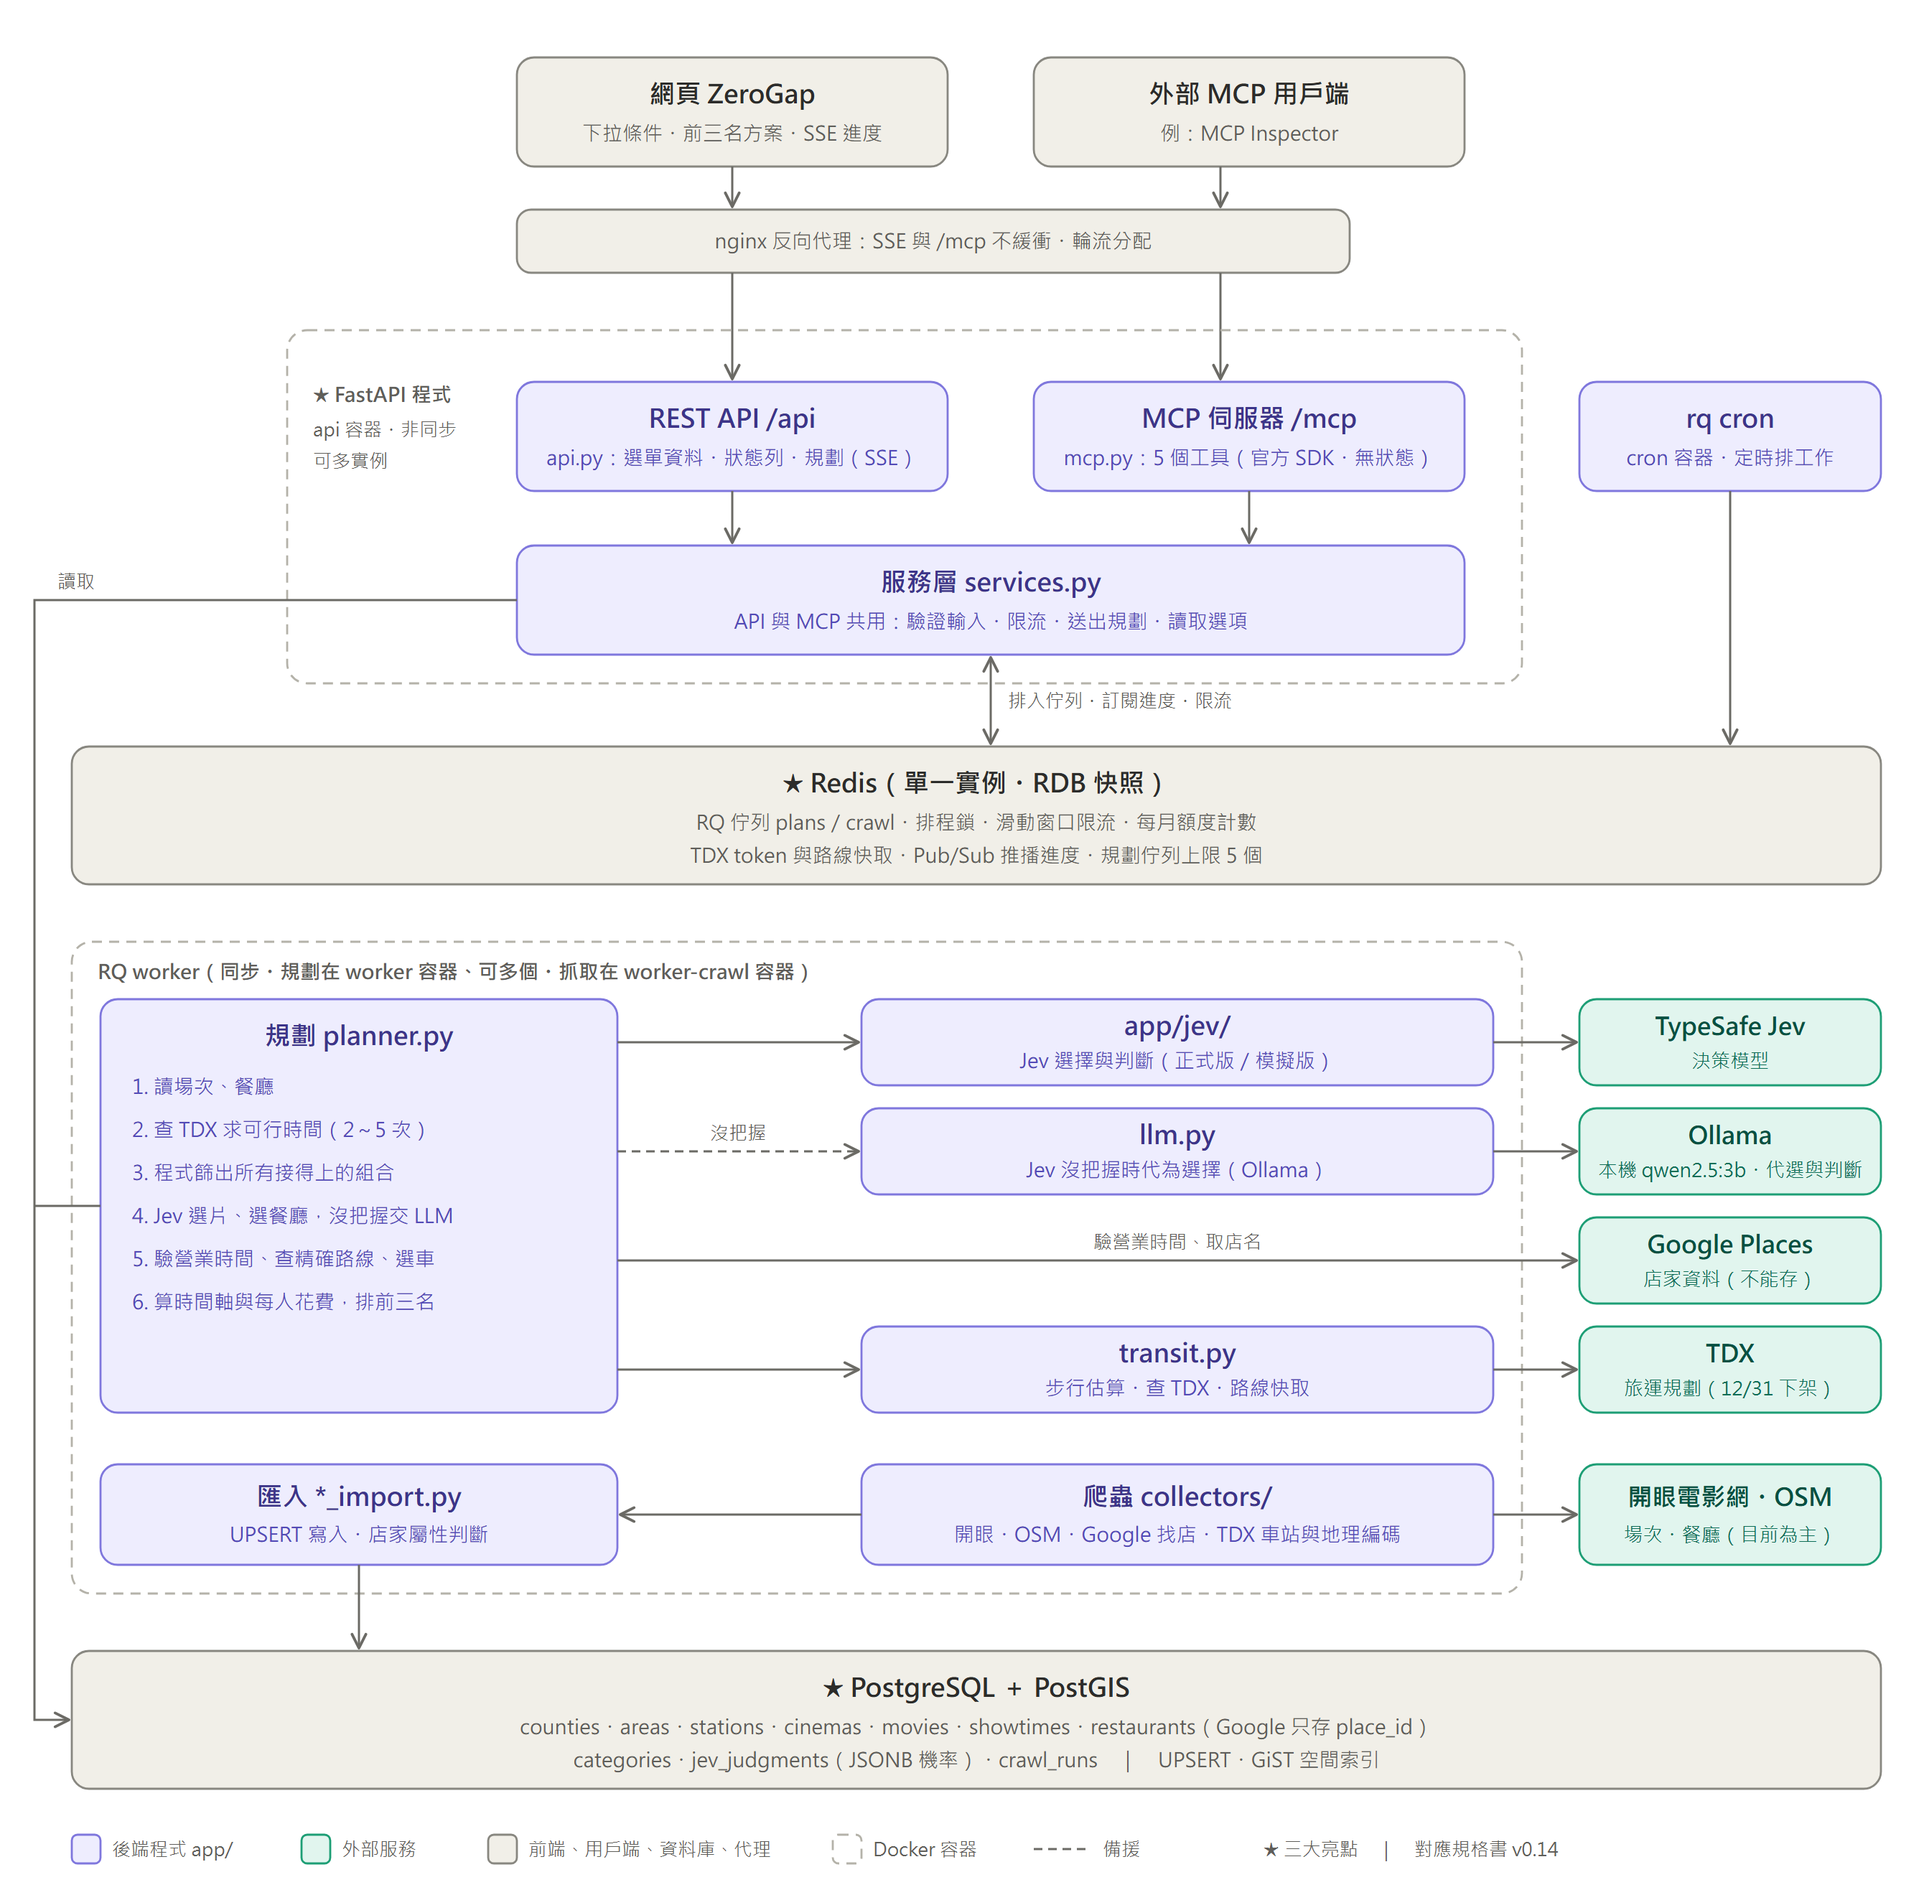
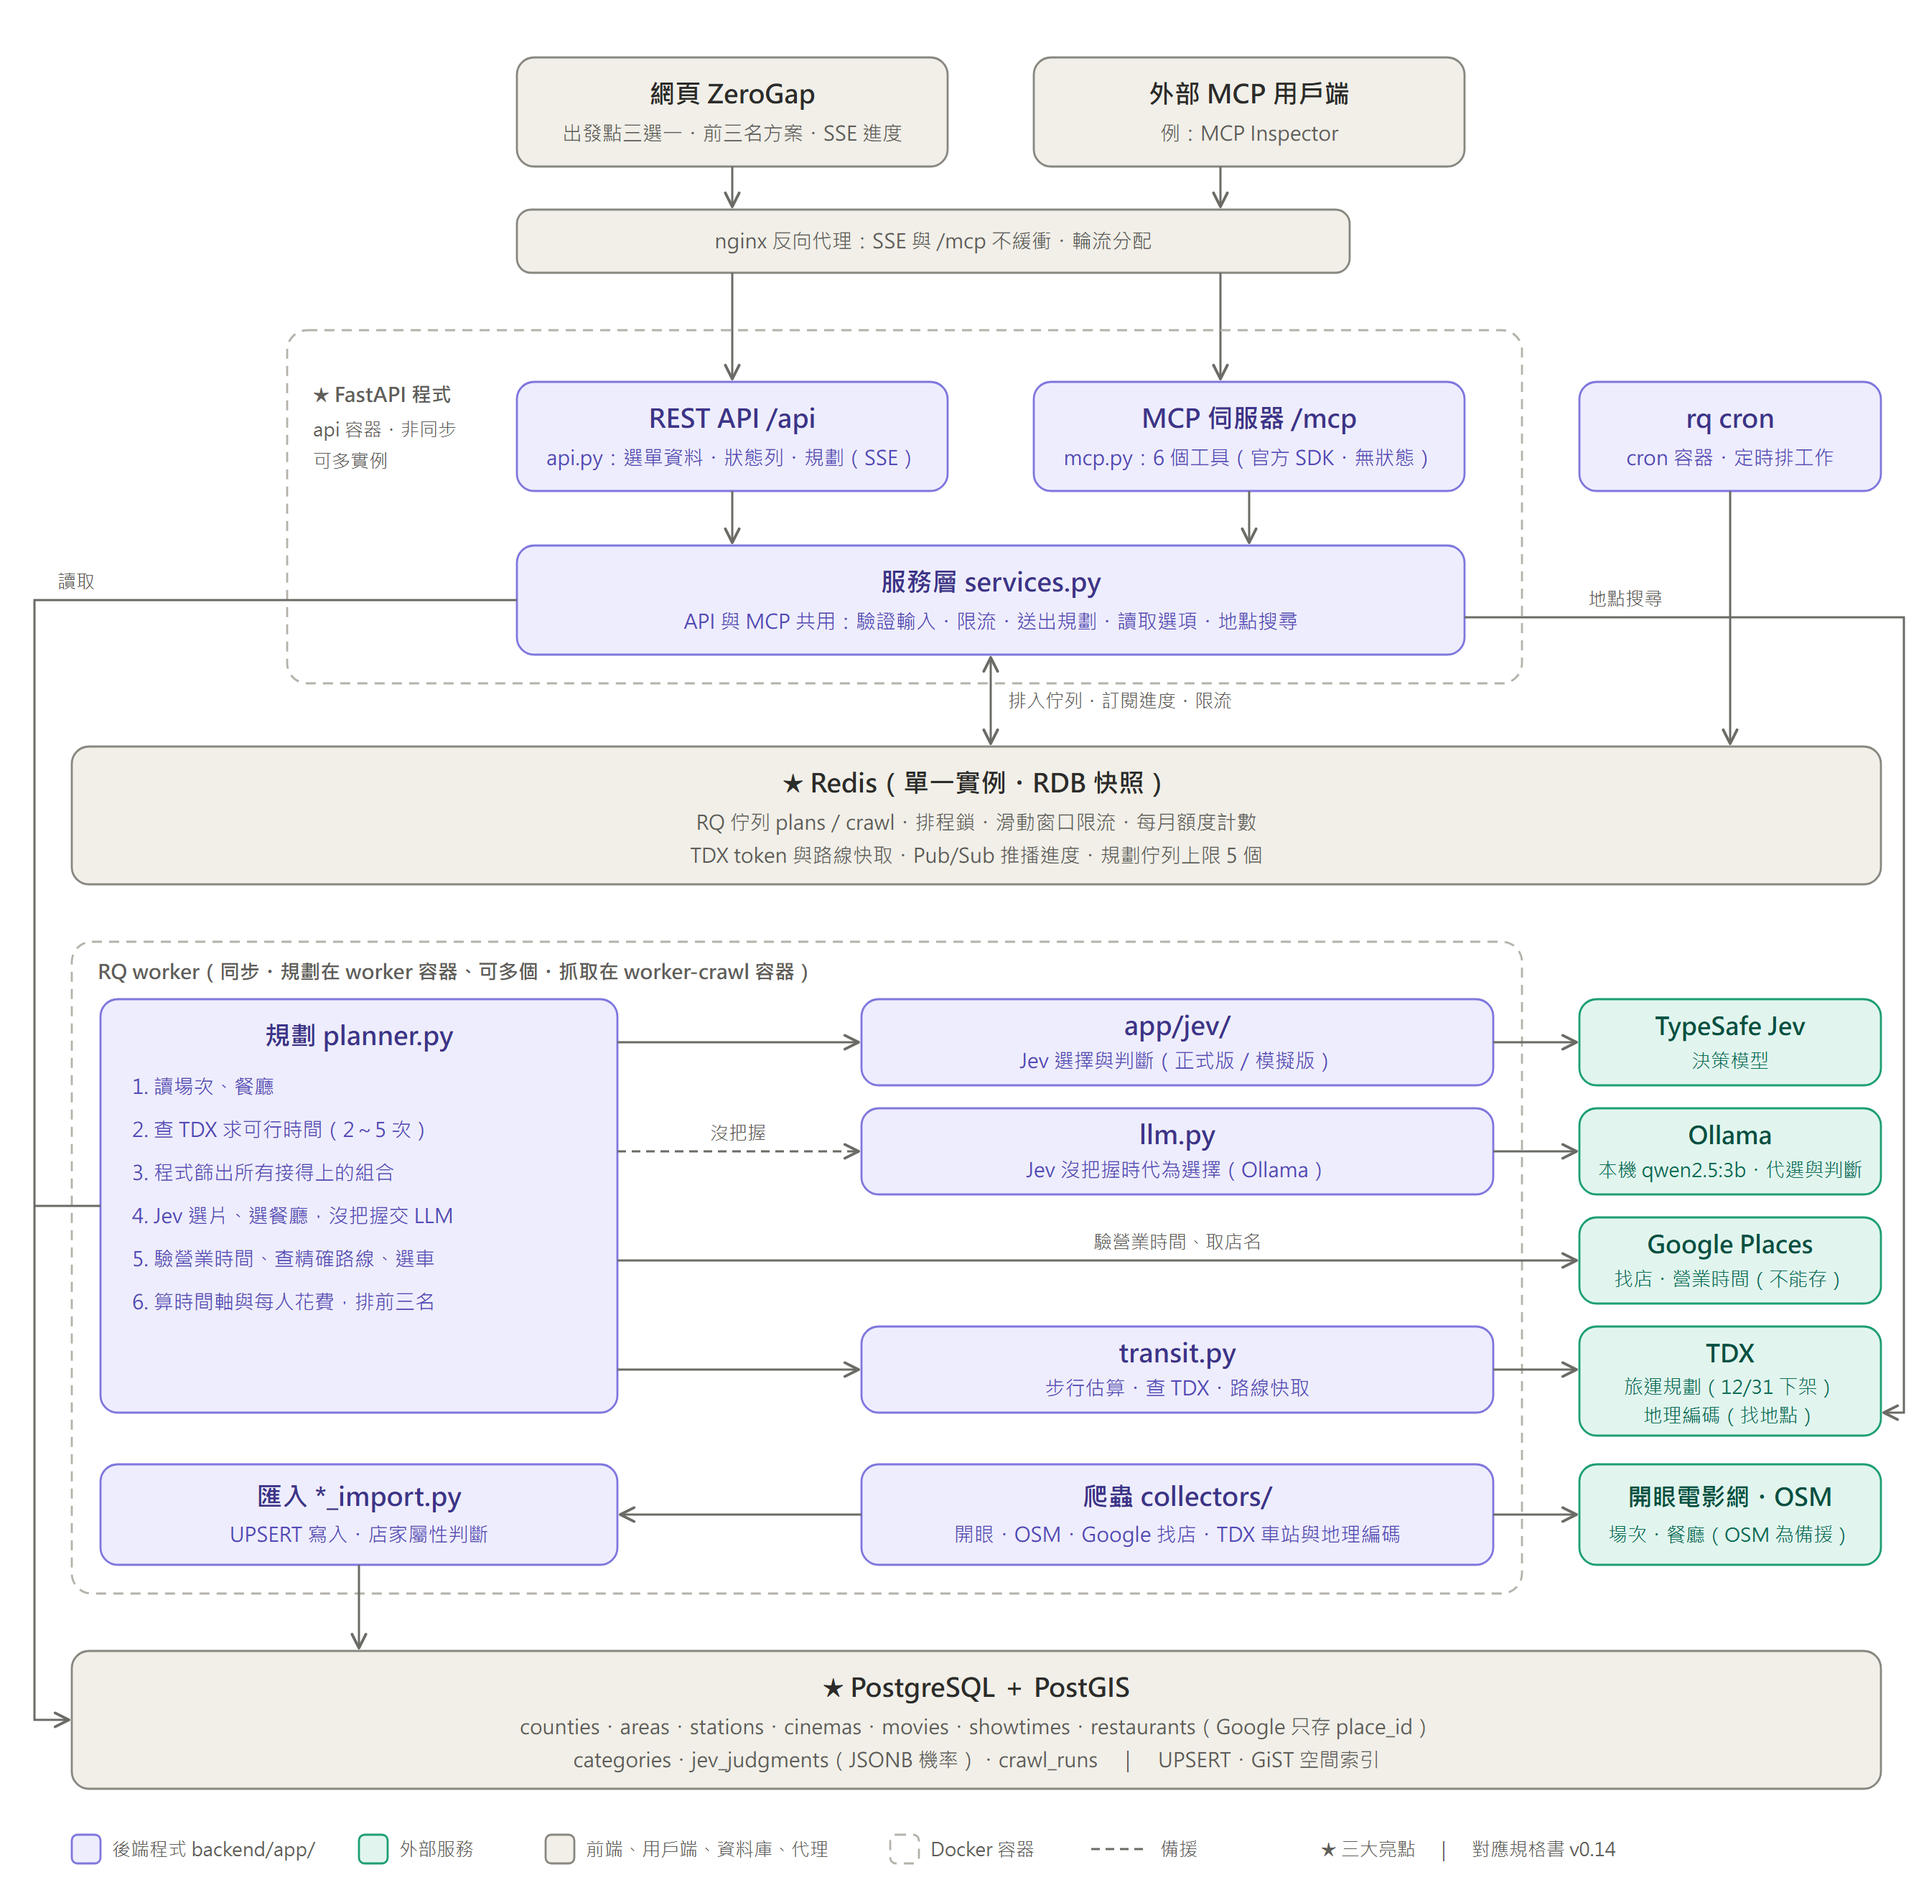
docs: 架構圖補上出發點三選一、地點搜尋（TDX 地理編碼）、MCP 6 個工具、backend/
10/22 在 D:\ZeroGap 做的，沒推上 GitHub，後來整理 repo 時漏掉，這次補回來。
衝突：架構圖的圖例兩邊都改了，用 10/22 的版面（backend/app/）、版本標 v0.14；
PNG 用 headless Chrome 重新轉出；討論紀錄 10/21、10/22 兩段都留，照日期排。

(cherry picked from commit 095e7e3)

diff --git a/docs/backend-spec.md b/docs/backend-spec.md
@@ -100,7 +100,7 @@
 - 虛線框是 Docker 容器：FastAPI（`api`）和 RQ worker 都可以開多個實例。RQ worker 分成兩種容器：`worker` 只跑規劃、`worker-crawl` 只跑抓取（v0.14）。
 - 標 ★ 的是三大亮點：FastAPI、Redis、PostgreSQL。
 - 虛線箭頭是備援：Jev 沒把握時交給 `llm.py`，由它呼叫 Ollama。
-- 架構從 v0.4 起沒有變動，所以檔名沿用 v0.4；圖上的文字已更新到 v0.13（v0.8：拿掉飲食限制、前端改名 ZeroGap、TDX 可行時間 2～5 次；v0.13：匯入改成各來源的 `*_import.py`、店家屬性先用 Ollama 判斷、OSM 是目前主要的餐廳來源、TDX 旅運規劃 12/31 下架）。原始檔：[architecture-v0.4.svg](架構圖/architecture-v0.4.svg)。要修改時直接編輯這個 SVG 檔，再轉一次 PNG：[architecture-v0.4.png](架構圖/architecture-v0.4.png)。
+- 架構從 v0.4 起沒有變動，所以檔名沿用 v0.4；圖上的文字已更新到 v0.13（v0.8：拿掉飲食限制、前端改名 ZeroGap、TDX 可行時間 2～5 次；v0.13：匯入改成各來源的 `*_import.py`、店家屬性先用 Ollama 判斷、OSM 是目前主要的餐廳來源、TDX 旅運規劃 12/31 下架；2026-10-22：出發點三選一、MCP 6 個工具、服務層的地點搜尋直接查 TDX 地理編碼、商圈有 Google 的店時 OSM 是備援、後端程式在 `backend/app/`）。原始檔：[architecture-v0.4.svg](架構圖/architecture-v0.4.svg)。要修改時直接編輯這個 SVG 檔，再轉一次 PNG：[architecture-v0.4.png](架構圖/architecture-v0.4.png)。
 
 ### 2.2 元件說明
 

diff --git a/docs/spec-discussion.md b/docs/spec-discussion.md
@@ -814,6 +814,10 @@ rq cron（只負責觸發）── 每天 06:00 ──▶ 抓取佇列 ──▶
 - **實作**：`docker-compose.yml` 拆成 `worker`、`worker-crawl`；新增 `tests/unit/test_compose_workers.py`（先看它失敗、改完再通過）。修完實測：開眼抓取跑著的時候，同一組條件 63 秒排完。
 - **順便發現、還沒處理**：中壢 10:00～23:59、預算 2000、步行 20 分鐘時，86870 種組合都接不上；條件更緊的 17:00～23:30、預算 1000 反而有接得上的，要另外查。
 
+### 2026-10-22 架構圖更新
+
+- 補上 10/21 的改動（之前漏了同步）：網頁的出發點三選一；MCP 6 個工具；服務層多「地點搜尋」，畫一條線直接到 TDX（地理編碼）；Google Places 改成「找店・營業時間」；開眼・OSM 改成「OSM 為備援」；圖例改成 `backend/app/`。SVG 改完用 headless Chrome 重新轉 PNG。
+
 ### 2026-10-26 AI 推論：決策紀錄、Router 判斷方式、LLM 熔斷與棄權（規格書 v0.15）
 
 - **問題**：
